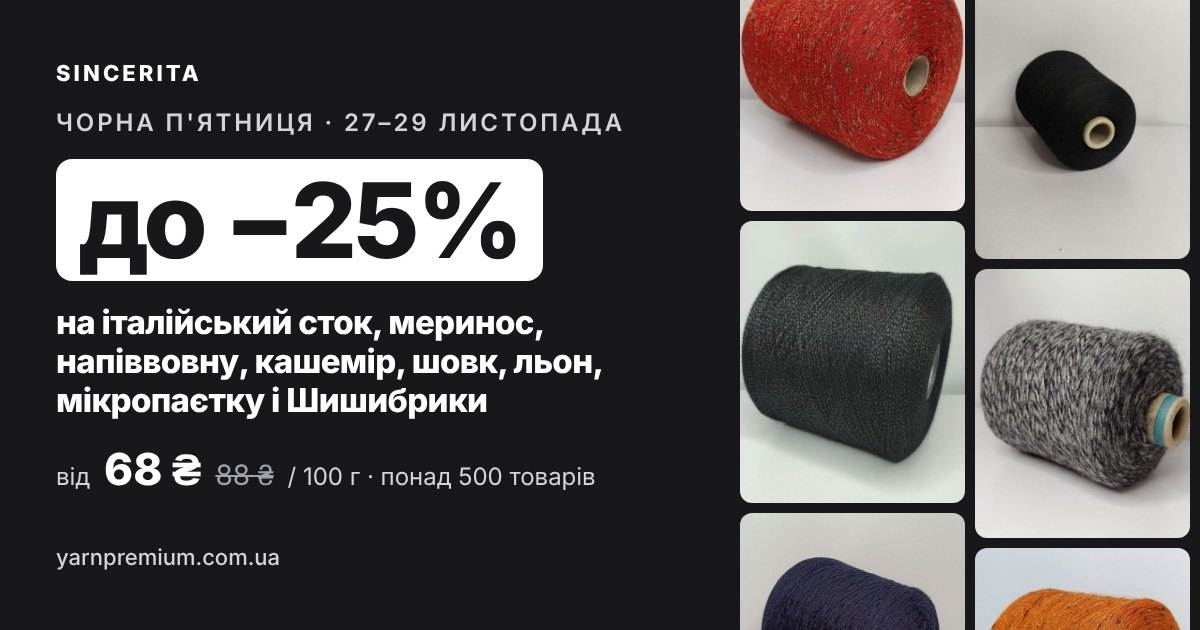
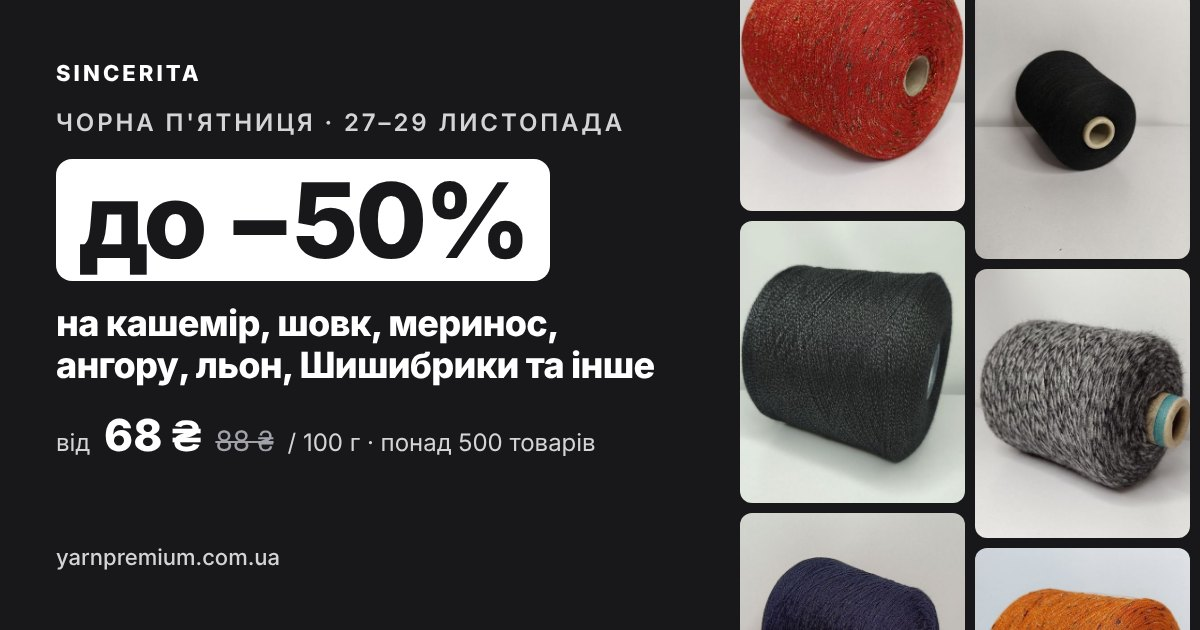
Black Friday: premium blends (file 11), 35 SKUs, −10% to −50%
Each product shows its own discount; the banner, strip and link preview now
say «до −50%» (Angoretta, 395 → 197 ₴).

Claude-Session: https://claude.ai/code/session_013udC3EiEZhSB9mKebvxyNz

Changed region(s): [[0.0308, 0.4825, 0.555, 0.7841], [0.2467, 0.2413, 0.4625, 0.4524]]

diff --git a/lib/promo-files/index.ts b/lib/promo-files/index.ts
@@ -8,7 +8,8 @@ import f_lon from "./lon.json"
 import f_merynos from "./merynos.json"
 import f_mikropaietka from "./mikropaietka.json"
 import f_napivvovna from "./napivvovna.json"
+import f_premialni_sumishi from "./premialni-sumishi.json"
 import f_shovk from "./shovk.json"
 import f_shyshybryky_700 from "./shyshybryky-700.json"
 
-export const PROMO_FILES: PromoFile[] = [f_italiiskyi_stok, f_kashemir_z_merynosom, f_kashemir_z_shovkom, f_kashemir, f_lon, f_merynos, f_mikropaietka, f_napivvovna, f_shovk, f_shyshybryky_700]
+export const PROMO_FILES: PromoFile[] = [f_italiiskyi_stok, f_kashemir_z_merynosom, f_kashemir_z_shovkom, f_kashemir, f_lon, f_merynos, f_mikropaietka, f_napivvovna, f_premialni_sumishi, f_shovk, f_shyshybryky_700]
